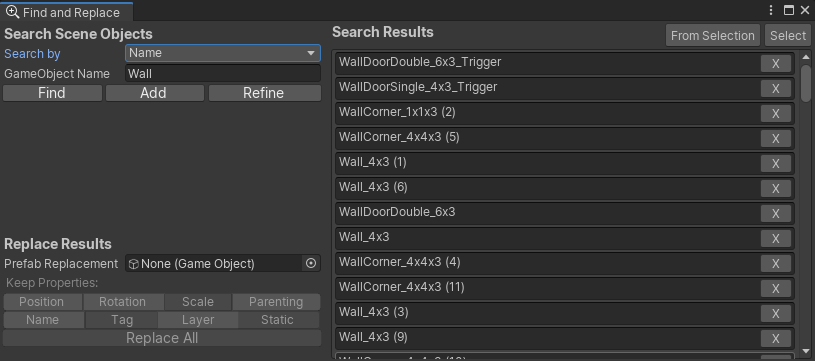
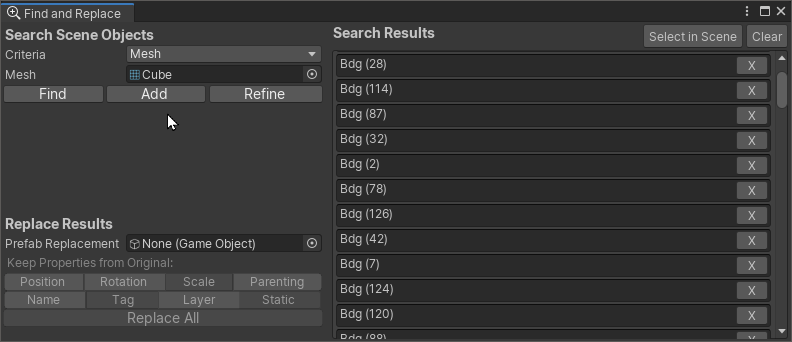
Reflected Changes from the FInd and Replace window

Changed region(s): [[0.0, 0.0, 1.0, 1.0], [0.2121, 0.3509, 0.2424, 0.3801]]

diff --git a/docs/gameplay-ingredients/find-and-replace.md b/docs/gameplay-ingredients/find-and-replace.md
@@ -5,3 +5,42 @@
 Find And Replace is a Window that enables searching, refining and/or append to search result list based on various criteria.
 
 ![Find and Replace](images/find-and-replace.png)
+
+#### Accessing the Window
+
+The Find and Replace window can be accessed through the `Edit/Find and Replace` menu.
+
+## Using the Find and Replace Window
+
+The window is split in two panes, left pane is the inspector where you can perform search and replace the search results by other game objects or prefabs. The Right ne contains a list of search results.
+
+### Search Scene Objects
+
+This section enables searching scene objects based on various criteria. The search results are gathered in the right pane. You can specify a search critera using the Criteria popup, from the following:
+
+* **Name** : If Game Object Name Contains a provided string
+* **Component Type**: If Game Object owns a specific component
+* **Tag**: If Game Object possess a specific tag
+* **Layer**: If Game Object is set to a specific layer.
+* **Mesh**: If Game Object owns a Mesh Filter with specified Mesh
+* **Material**: If Game Object Has a Renderer with specified Material.
+* **Selection** : Any Game Object That's currently selected (Optionally, including all its child hierarchy)
+
+### Replace Results
+
+The replace results section enables replacing all items in the search results by instances of a prefab or copies of a scene game object. While replacing these results you can choose to keep the following properties from the object that's being replaced:
+
+* Position, Rotation and/or Scale
+* Hierarchy Parenting
+* Game Object Name
+* Tag and/or Layer
+* Static Flag
+
+In order to select which properties you want to keep, please click the toggleable buttons.
+
+### Search Results Pane
+
+This pane presents a list of all current results
+
+
+

diff --git a/docs/index.md b/docs/index.md
@@ -6,5 +6,5 @@ you will find my repositories at this address : [https://github.com/peeweek/](ht
 
 **Documented Repositories:**
 
-*  [Gameplay Ingredients](gameplay-ingredients/index.md) 
+*  [Gameplay Ingredients](gameplay-ingredients/index.md)
 
